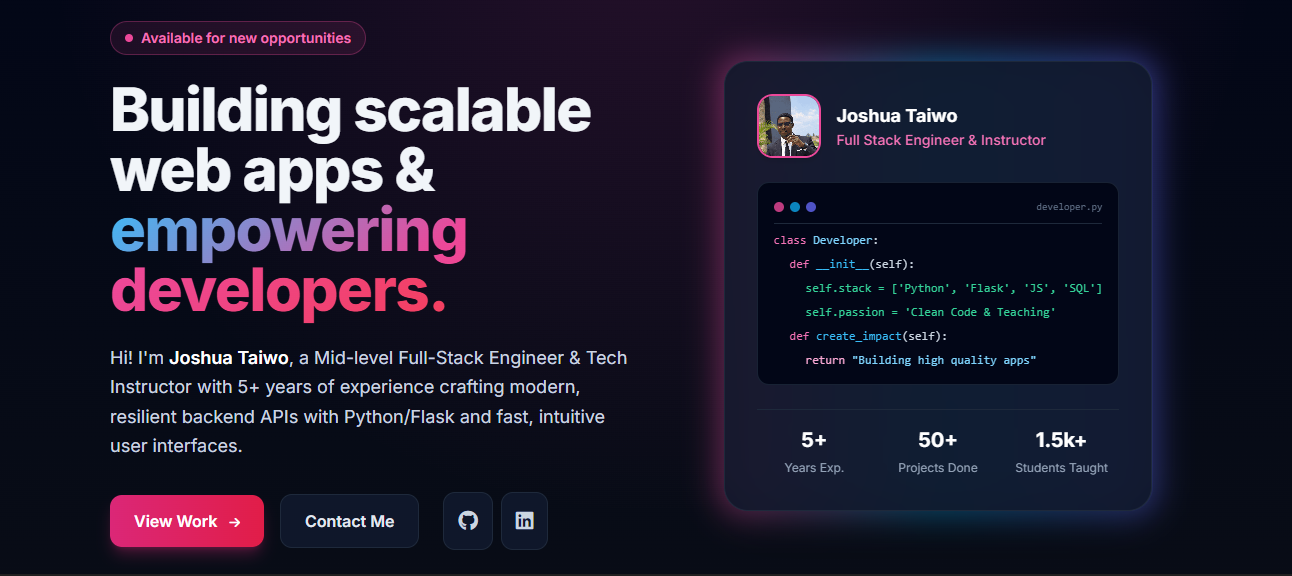
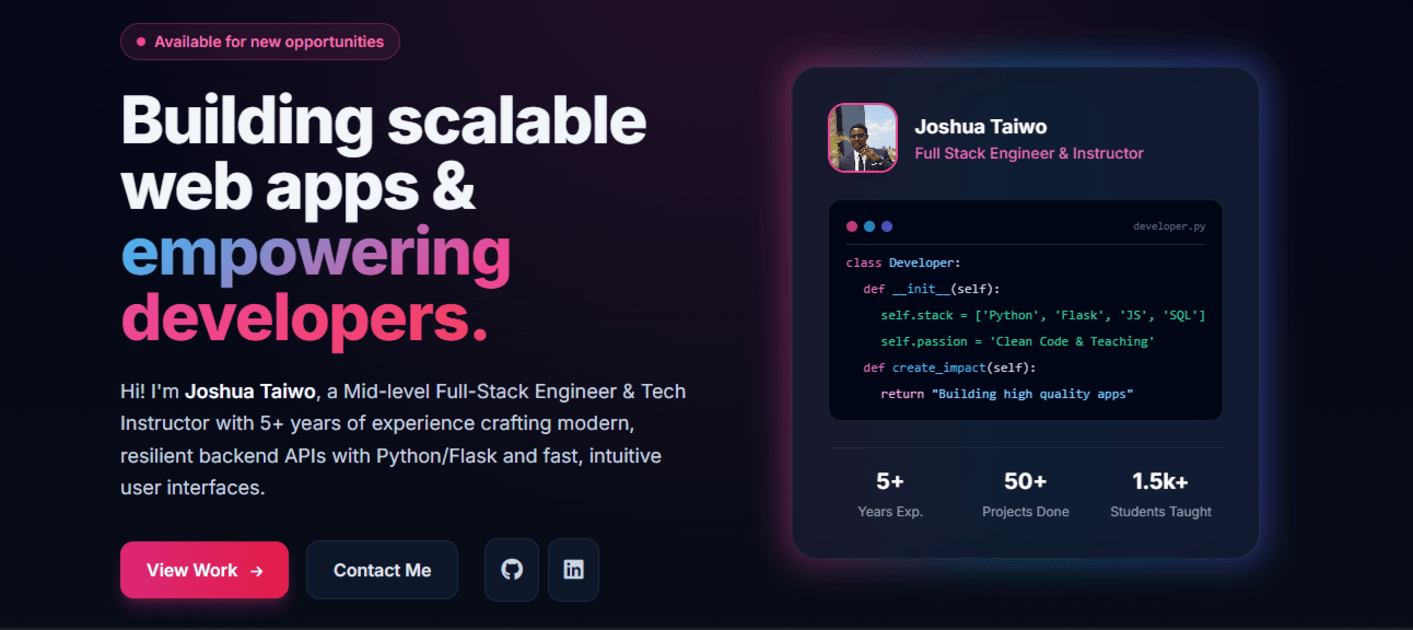
Add JSON-LD structured data for SEO optimization

diff --git a/frontend/index.html b/frontend/index.html
@@ -15,6 +15,18 @@
 
     <!-- Canonical URL (Update this once you deploy your custom domain) -->
     <link rel="canonical" href="https://joshua-taiwo.onrender.com/">
+   
+    <!-- Open Graph Extras -->
+    <meta property="og:site_name" content="Joshua Taiwo Portfolio" />
+    <meta property="og:locale" content="en_US" />
+    <meta property="og:image:width" content="1200" />
+    <meta property="og:image:height" content="630" />
+
+    <!-- Twitter Handle -->
+    <!-- <meta name="twitter:site" content="@yourusername" /> -->
+
+    <!-- Theme Color for Mobile Browsers -->
+    <meta name="theme-color" content="#0f172a" />
 
     <!-- Favicon / App Icons -->
     <link rel="icon" type="image/png" sizes="32x32" href="./assets/img/favicon-32x32.png">
@@ -716,5 +728,33 @@
 
     <!-- Scripts -->
     <script src="./assets/scripts/main.js"></script>
+    <!-- Structured Data (JSON-LD) for Personal Portfolio -->
+<script type="application/ld+json">
+{
+  "@context": "https://schema.org",
+  "@type": "Person",
+  "name": "Joshua Taiwo",
+  "jobTitle": "Full-Stack Software Engineer & Tech Instructor",
+  "url": "https://joshua-taiwo.onrender.com",
+  "sameAs": [
+    "https://github.com/T-Joshua",
+    "https://www.linkedin.com/in/joshtaiwo"
+  ],
+  "worksFor": {
+    "@type": "Organization",
+    "name": "Tech&Co Hub"
+  },
+  "knowsAbout": [
+    "Python",
+    "Flask/",
+    "Django",
+    "JavaScript",
+    "React/Next.js",
+    "Tailwind CSS",
+    "Full-Stack Web Development",
+    "Database Architecture"
+  ]
+}
+</script>
 </body>
 </html>
